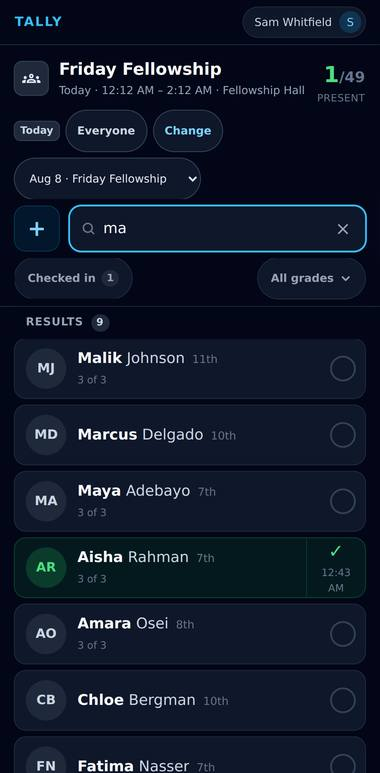
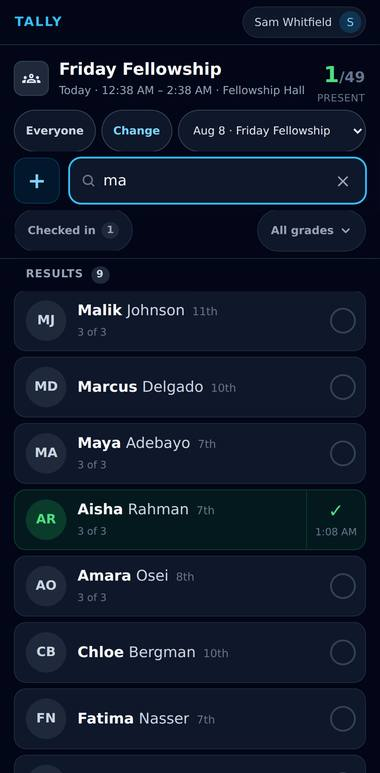
Say Today once, and keep the gathering picker on its row
Two things the walkthrough made obvious once there was a chip beside
them.

The neutral "Today" capsule was the same word twice. The line directly
above it renders `formatEventDay`, which says "Today" in exactly the spot
a reader looks first — so the capsule spent the scarcest space on the
header to add nothing. What is not redundant is the warn-toned version:
up there "Fri 7" is a date, and checking forty students into last Friday
is this app's worst failure, so that one keeps its capsule and its
colour.

The row no longer wraps. The select is the widest control on it and the
one most likely to be reached for on the wrong night, so it is the one
that flexes — everything beside it holds its size and the select takes
what is left, truncating instead of dropping to a line of its own. It had
been wrapping since the access chip arrived, which pushed the roster down
a step on every phone and made two chips read as a second group of things
they are not. With "Today" gone there is room, and `flex-1` keeps it that
way whatever sits alongside.

The chip shortens to `🔒 4` for the same reason, with the whole sentence
in its label — a screen reader gets it and the layout does not pay for
it.

The e2e assertion that matched the deleted capsule now matches the date
line. Its claim was always "the header keeps saying which night this is",
and that is still where it says it.

Claude-Session: https://claude.ai/code/session_01V3FnRk5gyFfGfiw9QzPMTM

diff --git a/src/features/checkin/EventHeader.tsx b/src/features/checkin/EventHeader.tsx
@@ -109,17 +109,32 @@ export function EventHeader({
         visible boundary being the one that navigates. The status now sits apart
         at the leading edge and the pair sits together, so proximity says what
         the styling says.
+
+        **One row, always.** The select is the widest control here and the one
+        most likely to be reached for on the wrong night, so it is the one that
+        flexes: everything beside it holds its size and the select takes what is
+        left, truncating rather than wrapping. Letting it wrap put the whole
+        control on a line of its own and pushed the roster down a step on every
+        phone — and a second line of chips reads as a second group of things,
+        which these are not.
       */}
-      <div className="mt-2 flex flex-wrap items-center gap-2">
-        {isToday ? (
-          <Badge tone="neutral" title="This gathering is on today">
-            Today
-          </Badge>
-        ) : (
+      <div className="mt-2 flex items-center gap-2">
+        {/*
+          Only when it is a warning.
+
+          The line directly above already says which day this is —
+          `formatEventDay` renders "Today" in exactly the spot a reader looks
+          first — so a neutral "Today" capsule beside it was the same word
+          twice, spending the row's scarcest resource to say nothing new. What
+          is *not* redundant is the warn-toned version: "Fri 7" up there is a
+          date, and checking forty students into last Friday is the worst
+          failure this app has, so that one keeps its capsule and its colour.
+        */}
+        {!isToday ? (
           <Badge tone="warn" title="This gathering is not today's">
             {event.startAt < now ? 'Past gathering' : 'Not today'}
           </Badge>
-        )}
+        ) : null}
 
         {/*
           The only route a counselor has to who is on this gathering.
@@ -129,13 +144,22 @@ export function EventHeader({
           added by the one person who is allowed to add them. It reads as a
           count rather than a verb because most of the time it is information;
           the sheet behind it is where the verbs are.
+
+          Short, because it shares a row with the select. The full sentence
+          lives in the label, where a screen reader gets it and the layout does
+          not pay for it.
         */}
         <button
           type="button"
           onClick={() => setAccessOpen(true)}
+          aria-label={
+            restricted
+              ? `Who's on this gathering — ${onGathering} ${onGathering === 1 ? 'person' : 'people'}`
+              : "Who's on this gathering — everyone on the team"
+          }
           className="flex min-h-11 shrink-0 items-center rounded-full bg-ink-900 px-3 text-xs font-semibold text-ink-300 ring-1 ring-ink-700 hover:bg-ink-800 active:bg-ink-800 pointer-fine:min-h-9"
         >
-          {restricted ? `🔒 ${onGathering} on this gathering` : 'Everyone'}
+          {restricted ? `🔒 ${onGathering}` : 'Everyone'}
         </button>
 
         {/* The way back to the chooser. It is a link rather than a "back to
@@ -153,7 +177,7 @@ export function EventHeader({
           aria-label="Switch event"
           value={event.id}
           onChange={(changed) => navigate(`/event/${changed.target.value}`)}
-          className="min-h-11 max-w-[55%] shrink truncate rounded-full bg-ink-900 px-3 text-xs text-ink-200 ring-1 ring-ink-700 focus:outline-none focus:ring-2 focus:ring-brand-400 pointer-fine:min-h-9"
+          className="min-h-11 min-w-0 flex-1 truncate rounded-full bg-ink-900 px-3 text-xs text-ink-200 ring-1 ring-ink-700 focus:outline-none focus:ring-2 focus:ring-brand-400 pointer-fine:min-h-9"
         >
           {options.map((candidate) => (
             <option key={candidate.id} value={candidate.id}>

diff --git a/e2e/checkin.spec.ts b/e2e/checkin.spec.ts
@@ -227,7 +227,17 @@ test.describe('check-in', () => {
     // worst failure and the counselor is no longer being told what was chosen
     // for them.
     await expect(page.getByRole('heading', { level: 1 })).toBeVisible();
-    await expect(page.getByText('Today', { exact: true })).toBeVisible();
+    /*
+     * The date line under the title, not a capsule beside it.
+     *
+     * There used to be a neutral "Today" badge as well, which this asserted
+     * with `exact` — and it was the same word twice on the one row that has no
+     * space to spare. The claim being made here is about the header saying
+     * which night it is filing against, and this line is where it says it; the
+     * capsule survives only in its warn-toned form, where "not today" is a
+     * warning rather than a repetition.
+     */
+    await expect(page.getByText(/^Today · /)).toBeVisible();
     await expect(page.getByRole('link', { name: 'Change' })).toBeVisible();
     await expect(page.getByLabel(/switch event/i)).toBeVisible();
     await expect(page.getByLabel(/search students by name/i)).toBeVisible();
